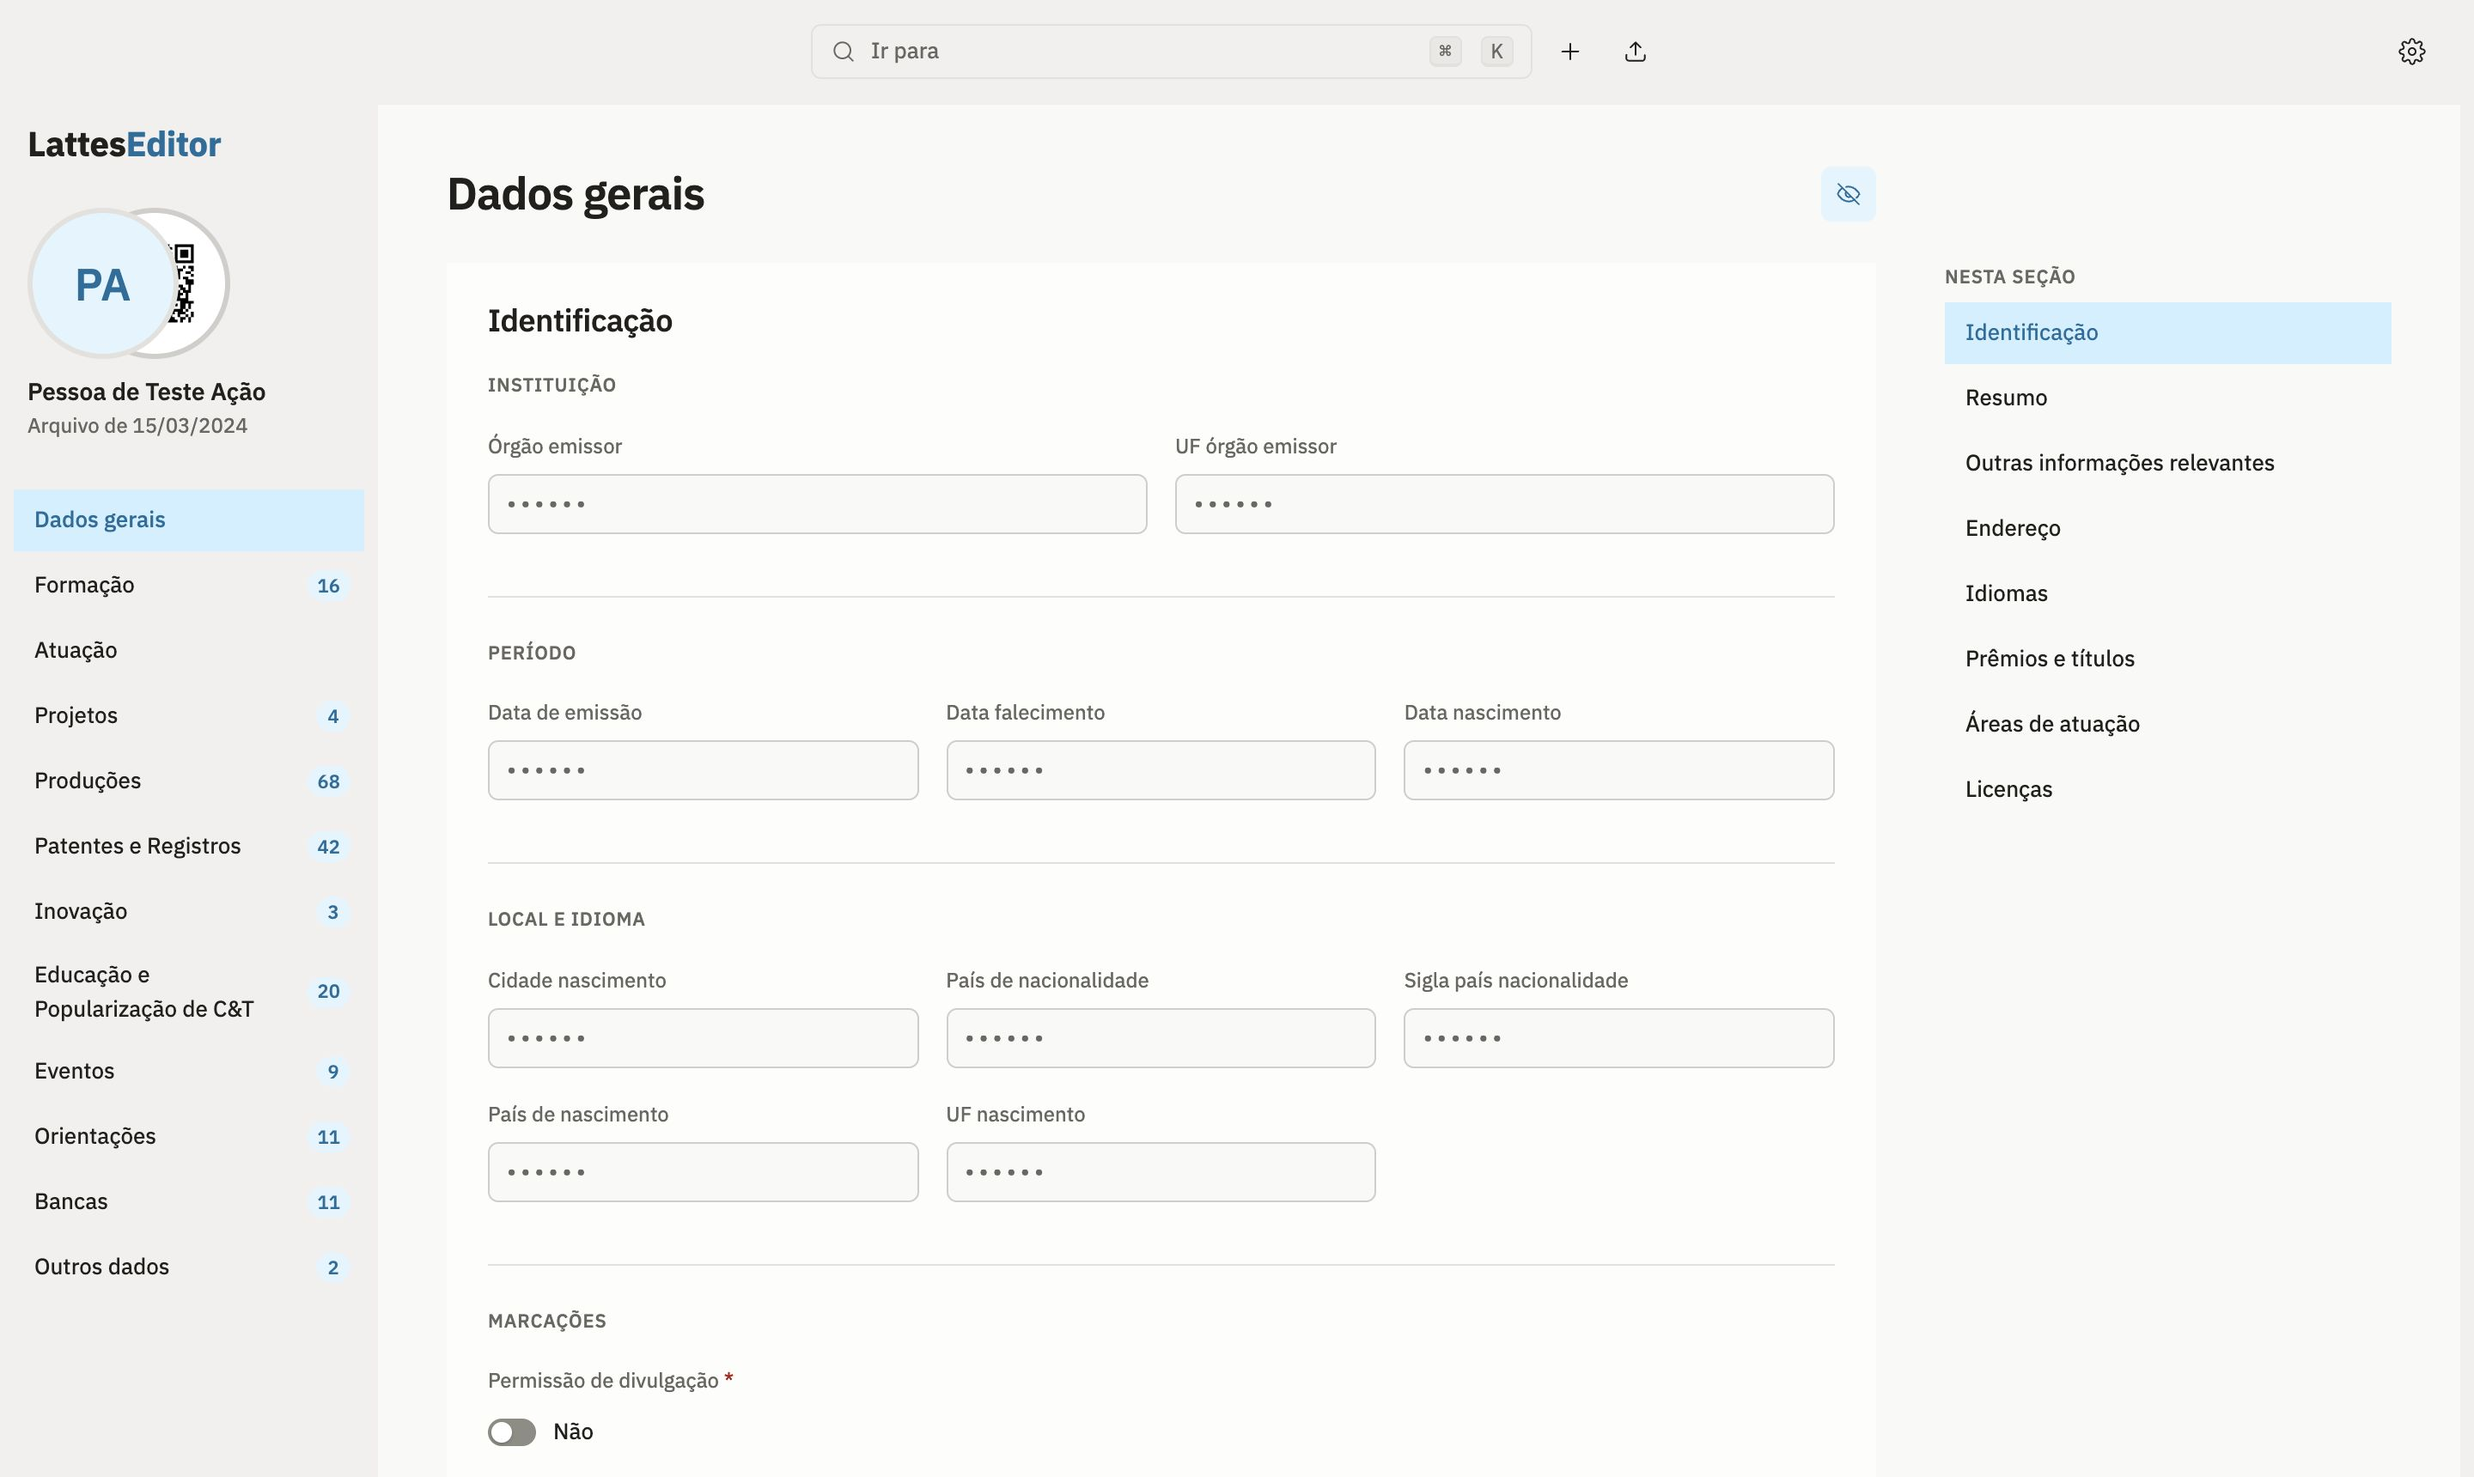
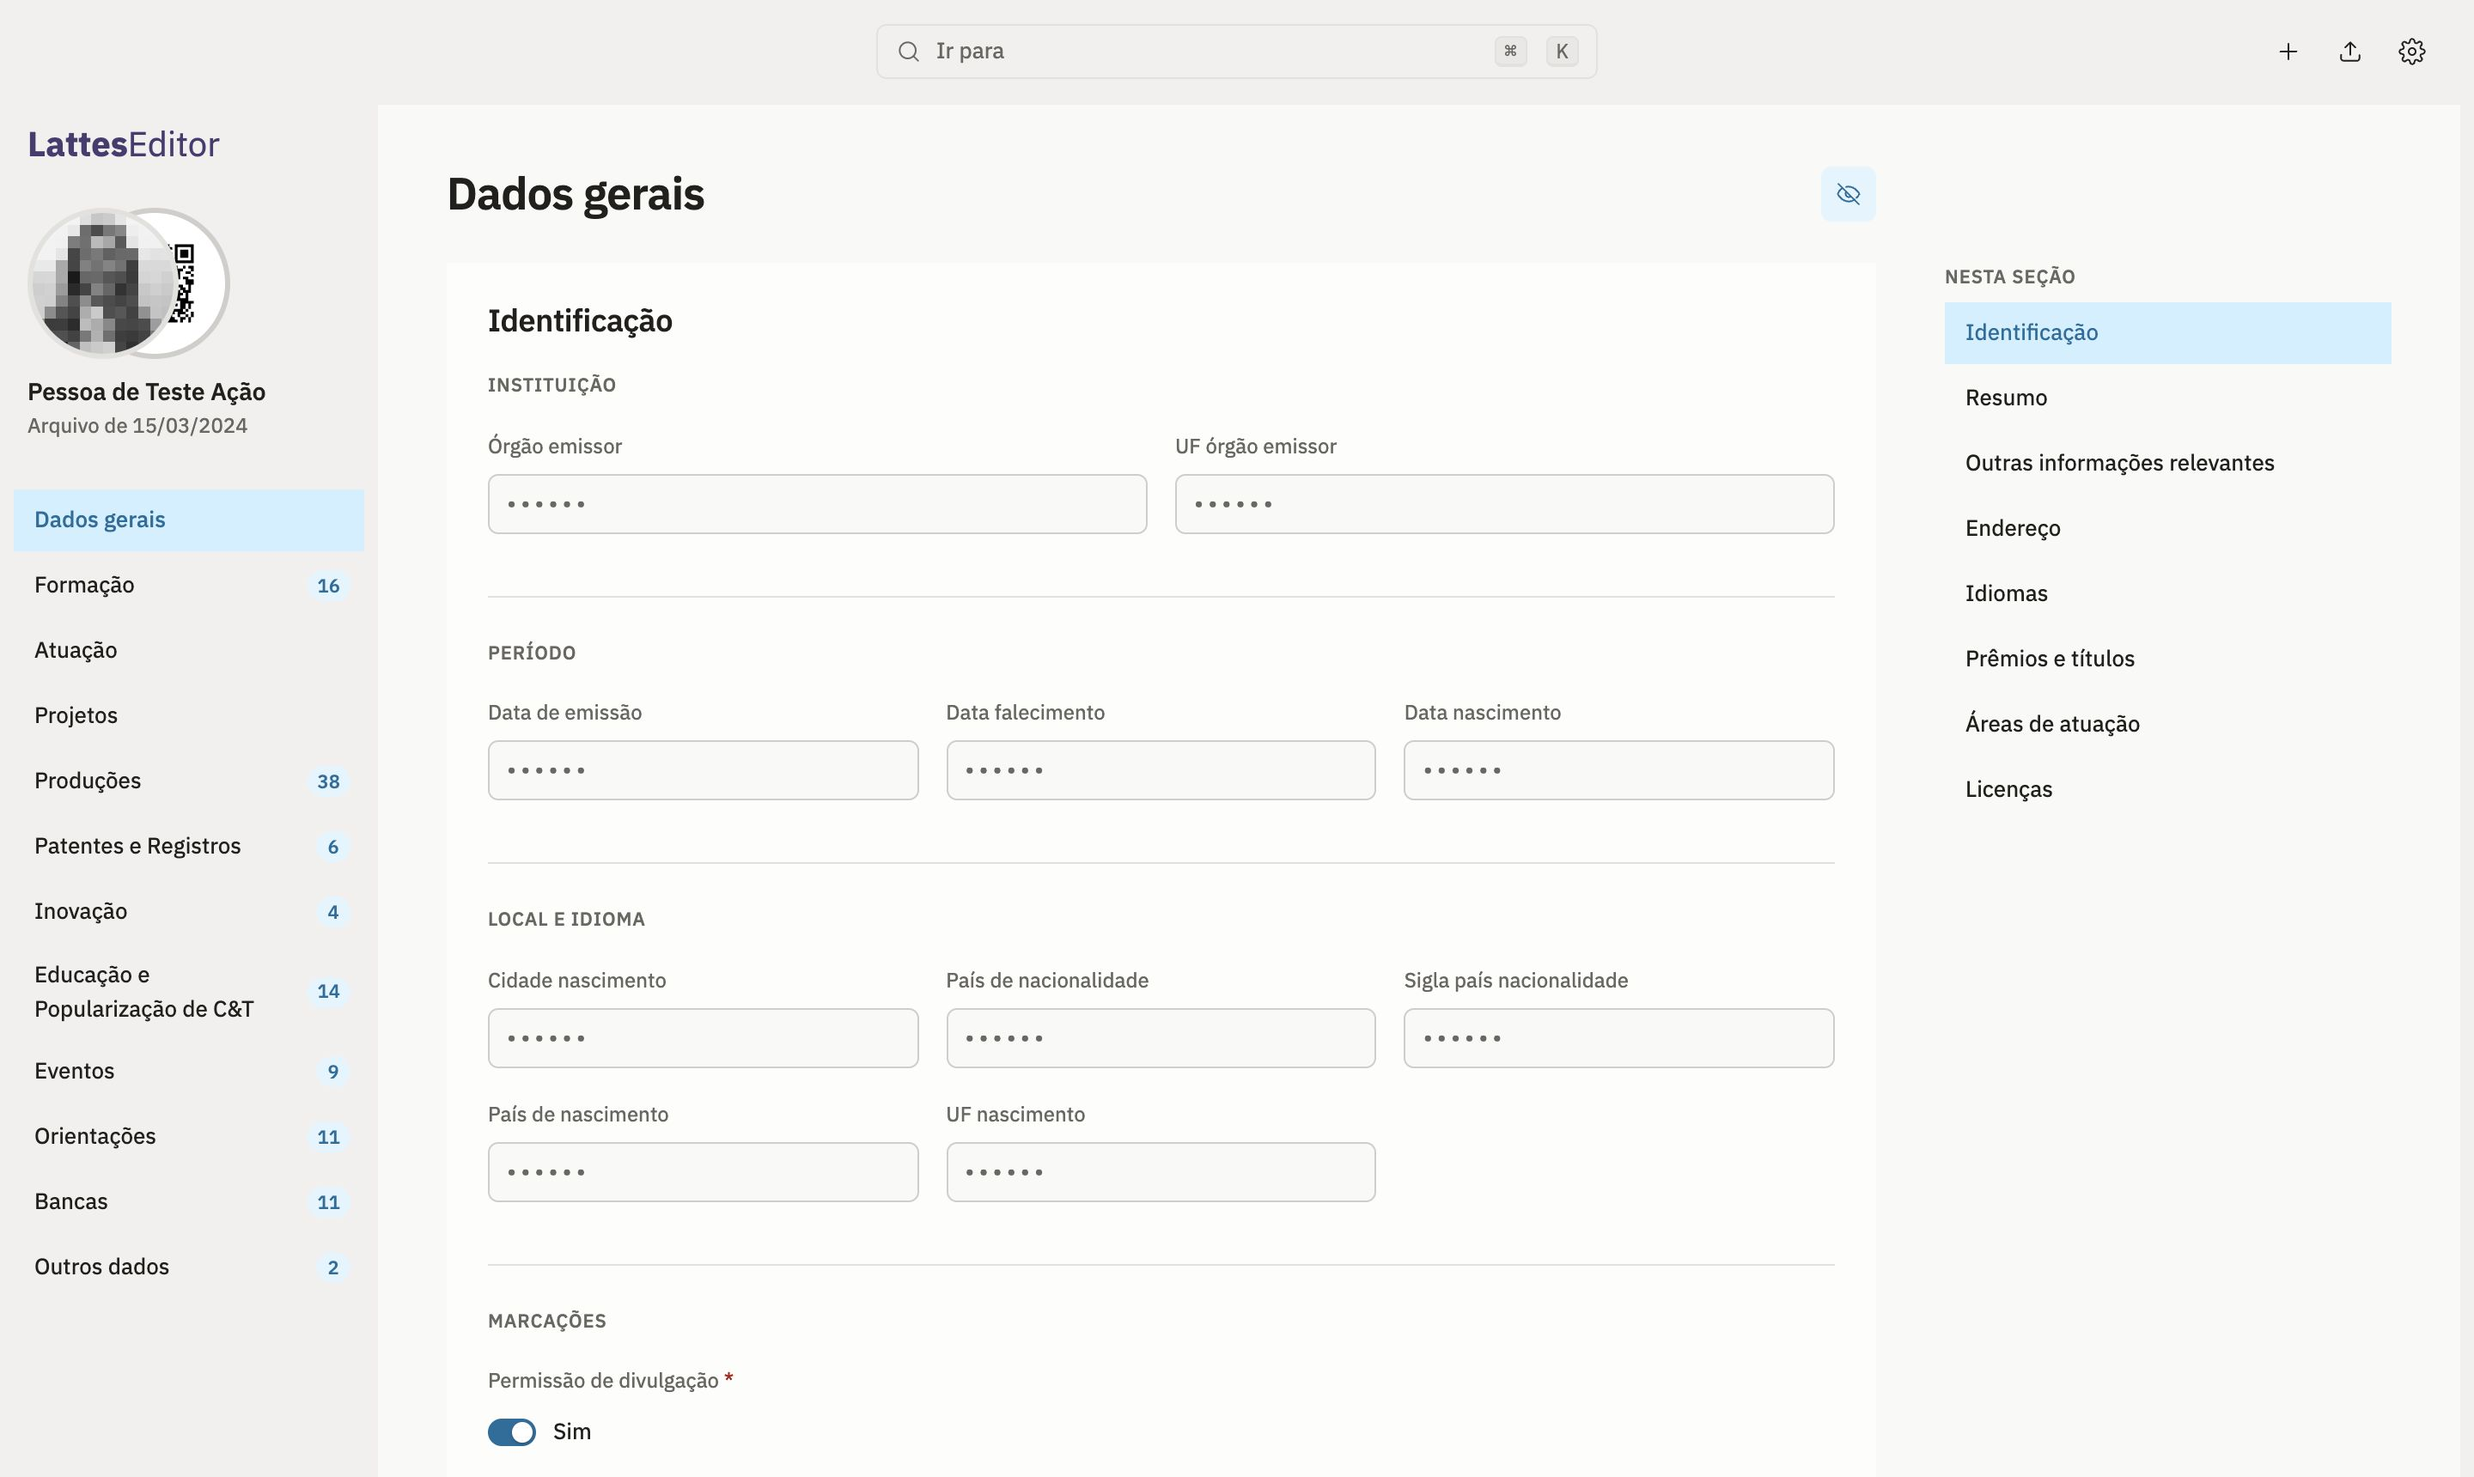
docs: capturas novas do currículo de exemplo nos dois temas
As capturas do README e a da página do projeto saem do currículo
sintético com anos e valores variados e de todas as mudanças de
interface desde a 0.5.0, em claro e escuro. O script de capturas passa a
gravar também site/img/editor-<tema>.jpg (a mesma tela de Produções),
que antes era feita à mão, e liga o modo de privacidade só em Dados
gerais; nas outras telas aparece a foto de exemplo.

Changed region(s): [[0.0, 0.0924, 0.0938, 0.2465], [0.3438, 0.0308, 0.4062, 0.0616], [0.1875, 0.9552, 0.25, 0.986]]

diff --git a/scripts/capture-screenshots.ts b/scripts/capture-screenshots.ts
@@ -3,7 +3,8 @@
 //
 // Usa um Brave ou Chrome sem janela, com perfil temporário, falando pelo
 // protocolo de depuração (sem Playwright nem outra dependência). Cada tela
-// sai nos temas claro e escuro, em docs/img/<nome>-<tema>.jpg.
+// sai nos temas claro e escuro, em docs/img/<nome>-<tema>.jpg. A de Produções
+// também vai para a página do projeto, em site/img/editor-<tema>.jpg.
 //
 //   pnpm dev                       # o editor em http://localhost:5173 (ou outra porta)
 //   pnpm capture:screenshots [url] # padrão: http://localhost:5173/
@@ -30,17 +31,24 @@ const sleep = (ms: number) => new Promise((r) => setTimeout(r, ms));
 
 /** Uma tela: como chegar nela a partir do editor aberto. */
 interface Shot {
+  /** Outra cópia, sem o "-<tema>.jpg" (caminho a partir da raiz do repositório). */
+  alsoTo?: string;
   name: string;
   /** Roda na página antes da captura. */
   prepare?: string;
+  /**
+   * Modo de privacidade (dados pessoais e foto mascarados). Só Dados gerais o
+   * mostra ligado; nas outras telas a foto de exemplo aparece.
+   */
+  privacy?: boolean;
   /** Antes de abrir o currículo (a tela inicial). */
   welcome?: boolean;
 }
 
 const SHOTS: Shot[] = [
   { name: 'inicio', welcome: true },
-  { name: 'producoes', prepare: `location.hash = 'producoes'` },
-  { name: 'dados-gerais', prepare: `location.hash = 'dados-gerais'` },
+  { alsoTo: 'site/img/editor', name: 'producoes', prepare: `location.hash = 'producoes'` },
+  { name: 'dados-gerais', prepare: `location.hash = 'dados-gerais'`, privacy: true },
   {
     name: 'ir-para',
     prepare: `location.hash = 'producoes';
@@ -110,14 +118,17 @@ async function capture(theme: 'claro' | 'escuro'): Promise<void> {
     features: [{ name: 'prefers-color-scheme', value: theme === 'claro' ? 'light' : 'dark' }],
   });
 
-  const shoot = async (name: string) => {
+  const shoot = async (shot: Shot) => {
     const { data } = await cdp.send<{ data: string }>('Page.captureScreenshot', {
       format: 'jpeg',
       quality: 80,
     });
-    const file = join(outDir, `${name}-${theme}.jpg`);
-    writeFileSync(file, Buffer.from(data, 'base64'));
-    console.log(file.replace(root, ''));
+    const files = [join(outDir, `${shot.name}-${theme}.jpg`)];
+    if (shot.alsoTo) files.push(join(root, `${shot.alsoTo}-${theme}.jpg`));
+    for (const file of files) {
+      writeFileSync(file, Buffer.from(data, 'base64'));
+      console.log(file.replace(root, ''));
+    }
   };
   const evaluate = (expression: string) => cdp.send('Runtime.evaluate', { expression });
 
@@ -128,7 +139,7 @@ async function capture(theme: 'claro' | 'escuro'): Promise<void> {
   });
   await cdp.send('Page.navigate', { url });
   await sleep(1500);
-  for (const shot of SHOTS.filter((s) => s.welcome)) await shoot(shot.name);
+  for (const shot of SHOTS.filter((s) => s.welcome)) await shoot(shot);
 
   const { root: doc } = await cdp.send<{ root: { nodeId: number } }>('DOM.getDocument');
   const { nodeId } = await cdp.send<{ nodeId: number }>('DOM.querySelector', {
@@ -138,7 +149,18 @@ async function capture(theme: 'claro' | 'escuro'): Promise<void> {
   await cdp.send('DOM.setFileInputFiles', { files: [fixture], nodeId });
   await sleep(2000);
 
+  // O modo de privacidade vem ligado; cada tela pede o seu. A troca recarrega
+  // a página (o currículo fica no IndexedDB e volta aberto).
+  let privacy: boolean | undefined;
   for (const shot of SHOTS.filter((s) => !s.welcome)) {
+    const want = shot.privacy ?? false;
+    if (want !== privacy) {
+      await evaluate(
+        `localStorage.setItem('lattes-editor:privacidade', '${want ? '1' : '0'}'); location.reload()`,
+      );
+      await sleep(2500);
+      privacy = want;
+    }
     // Fecha o que a captura anterior abriu (⌘K, modal) e volta ao topo.
     await evaluate(
       `document.dispatchEvent(new KeyboardEvent('keydown', { key: 'Escape', bubbles: true })); scrollTo(0, 0)`,
@@ -146,7 +168,7 @@ async function capture(theme: 'claro' | 'escuro'): Promise<void> {
     await sleep(300);
     if (shot.prepare) await evaluate(shot.prepare);
     await sleep(1500);
-    await shoot(shot.name);
+    await shoot(shot);
   }
   ws.close();
 }

diff --git a/site/index.html b/site/index.html
@@ -95,8 +95,8 @@
               />
               <img
                 src="img/editor-claro.jpg"
-                width="1352"
-                height="767"
+                width="1440"
+                height="860"
                 alt="O editor aberto na seção Produções: menu de seções à esquerda, itens agrupados por ano no centro e, à direita, o painel com o filtro e o índice da seção."
               />
             </picture>
